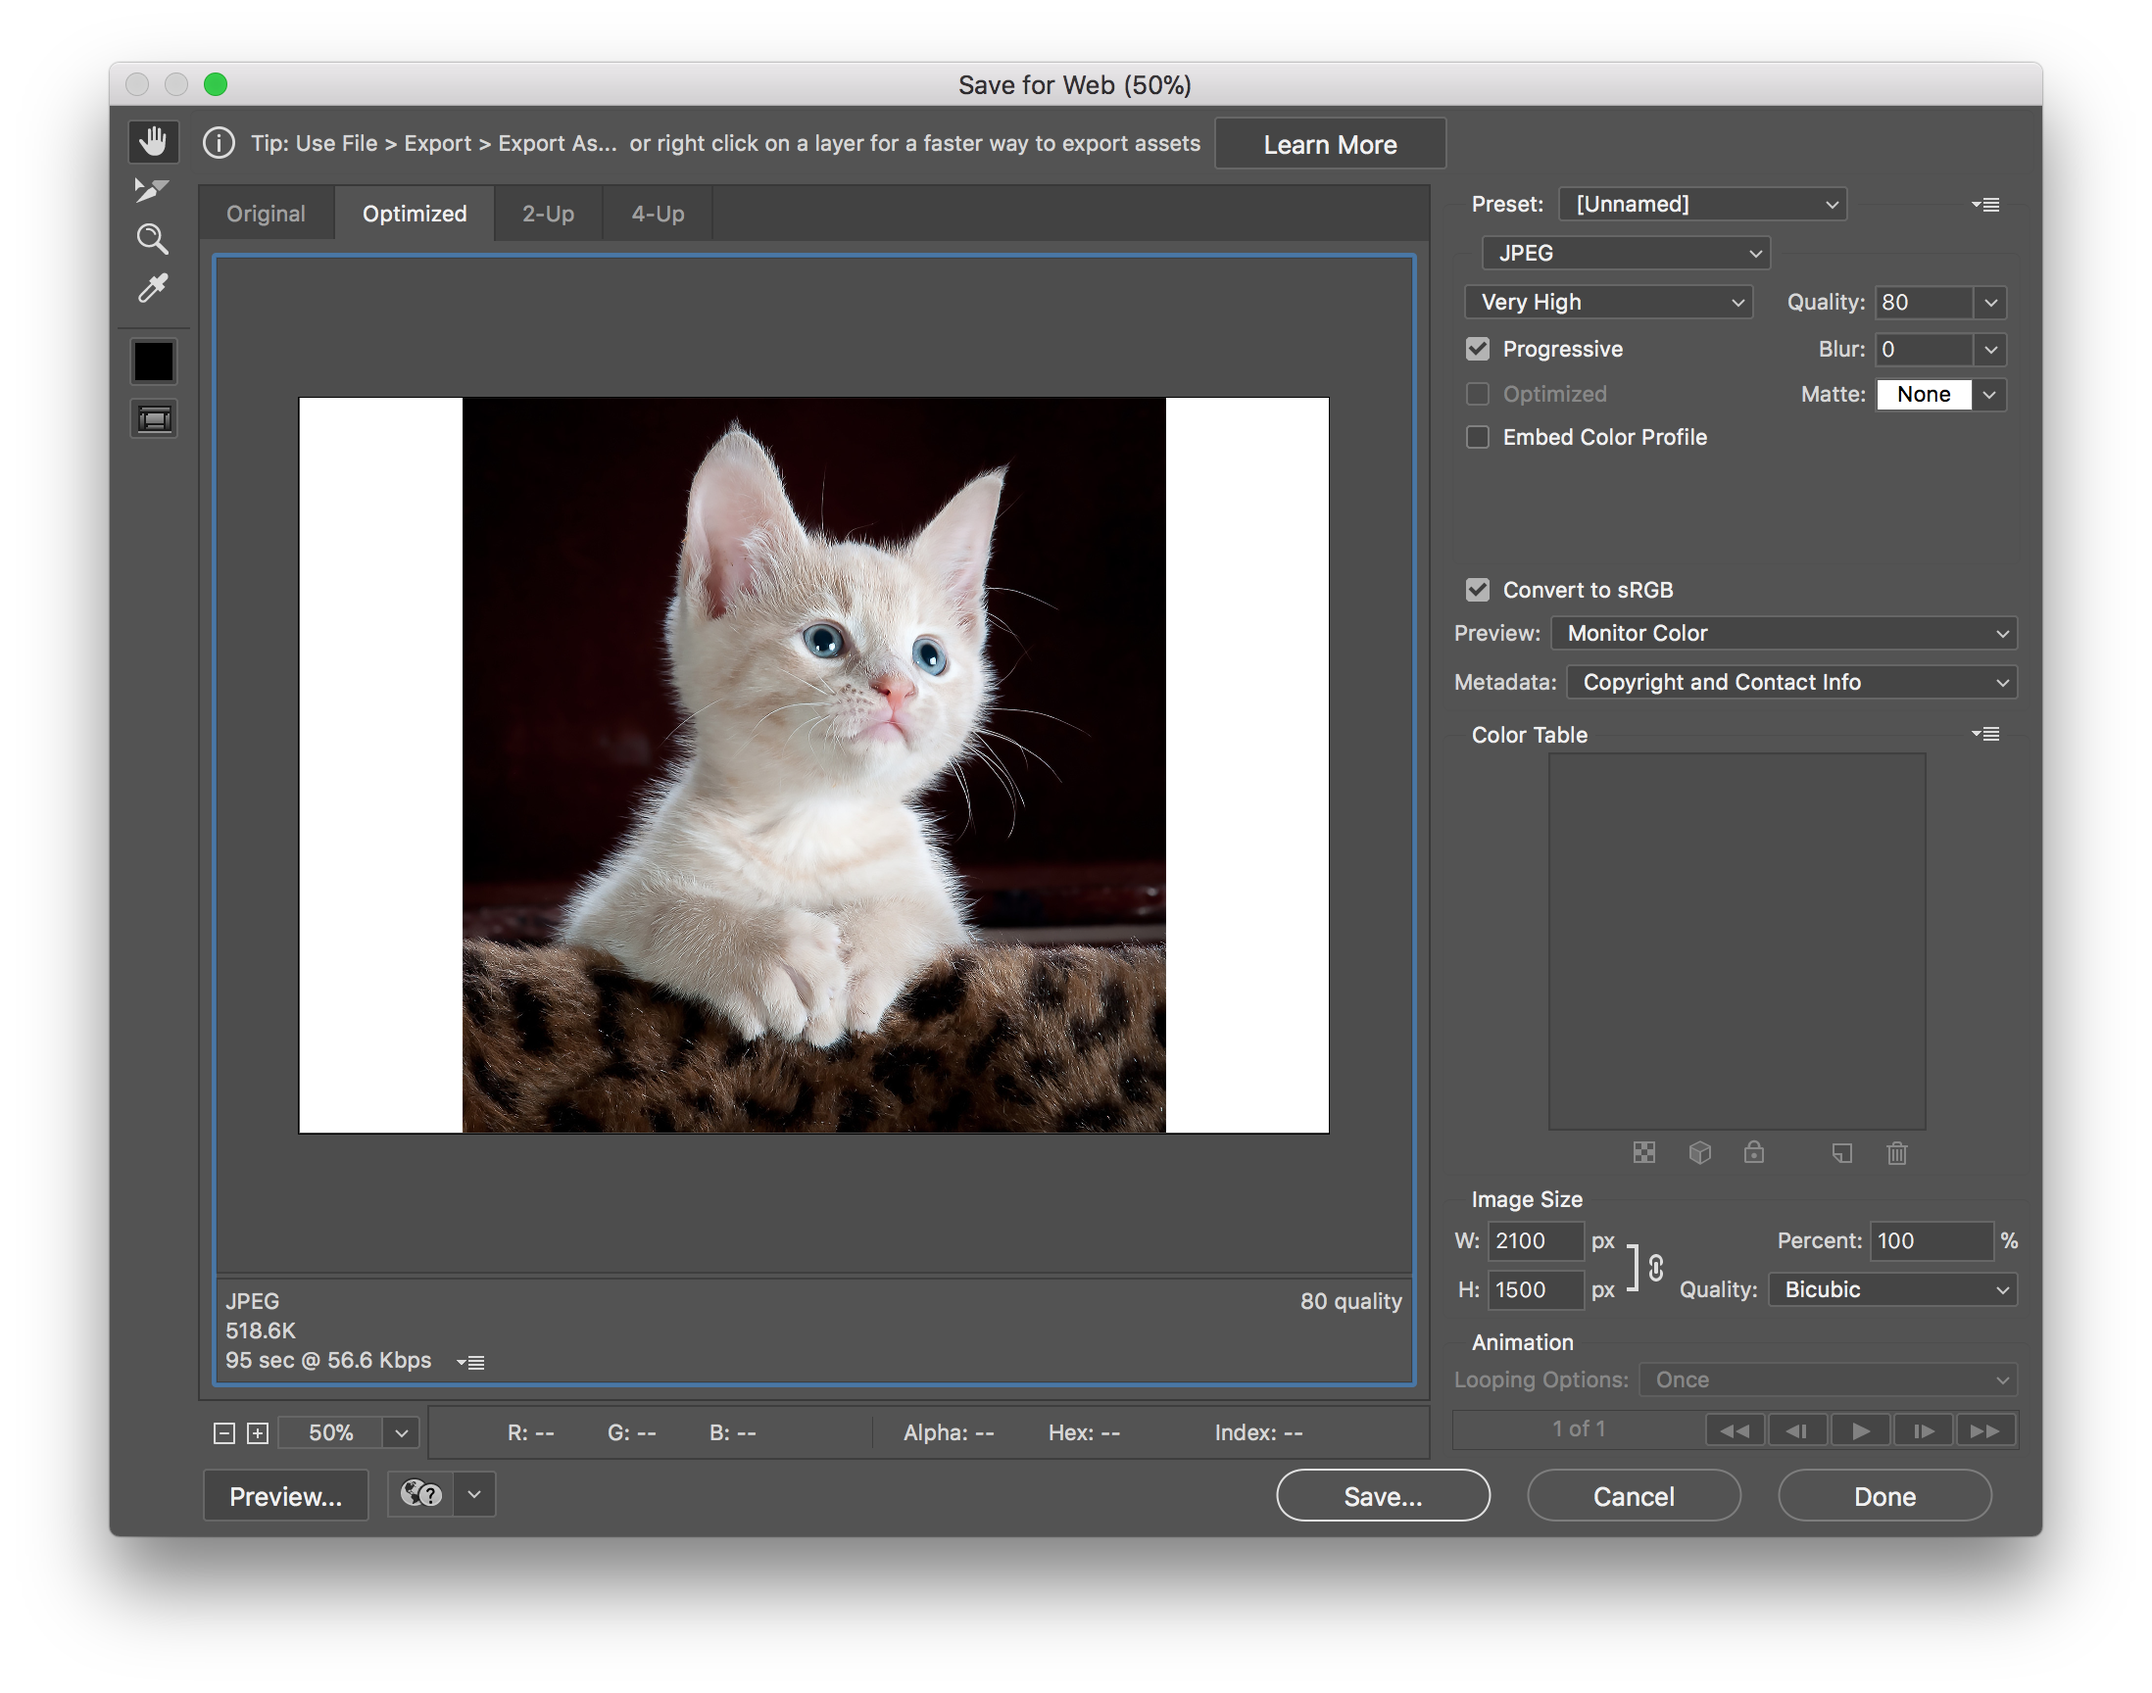
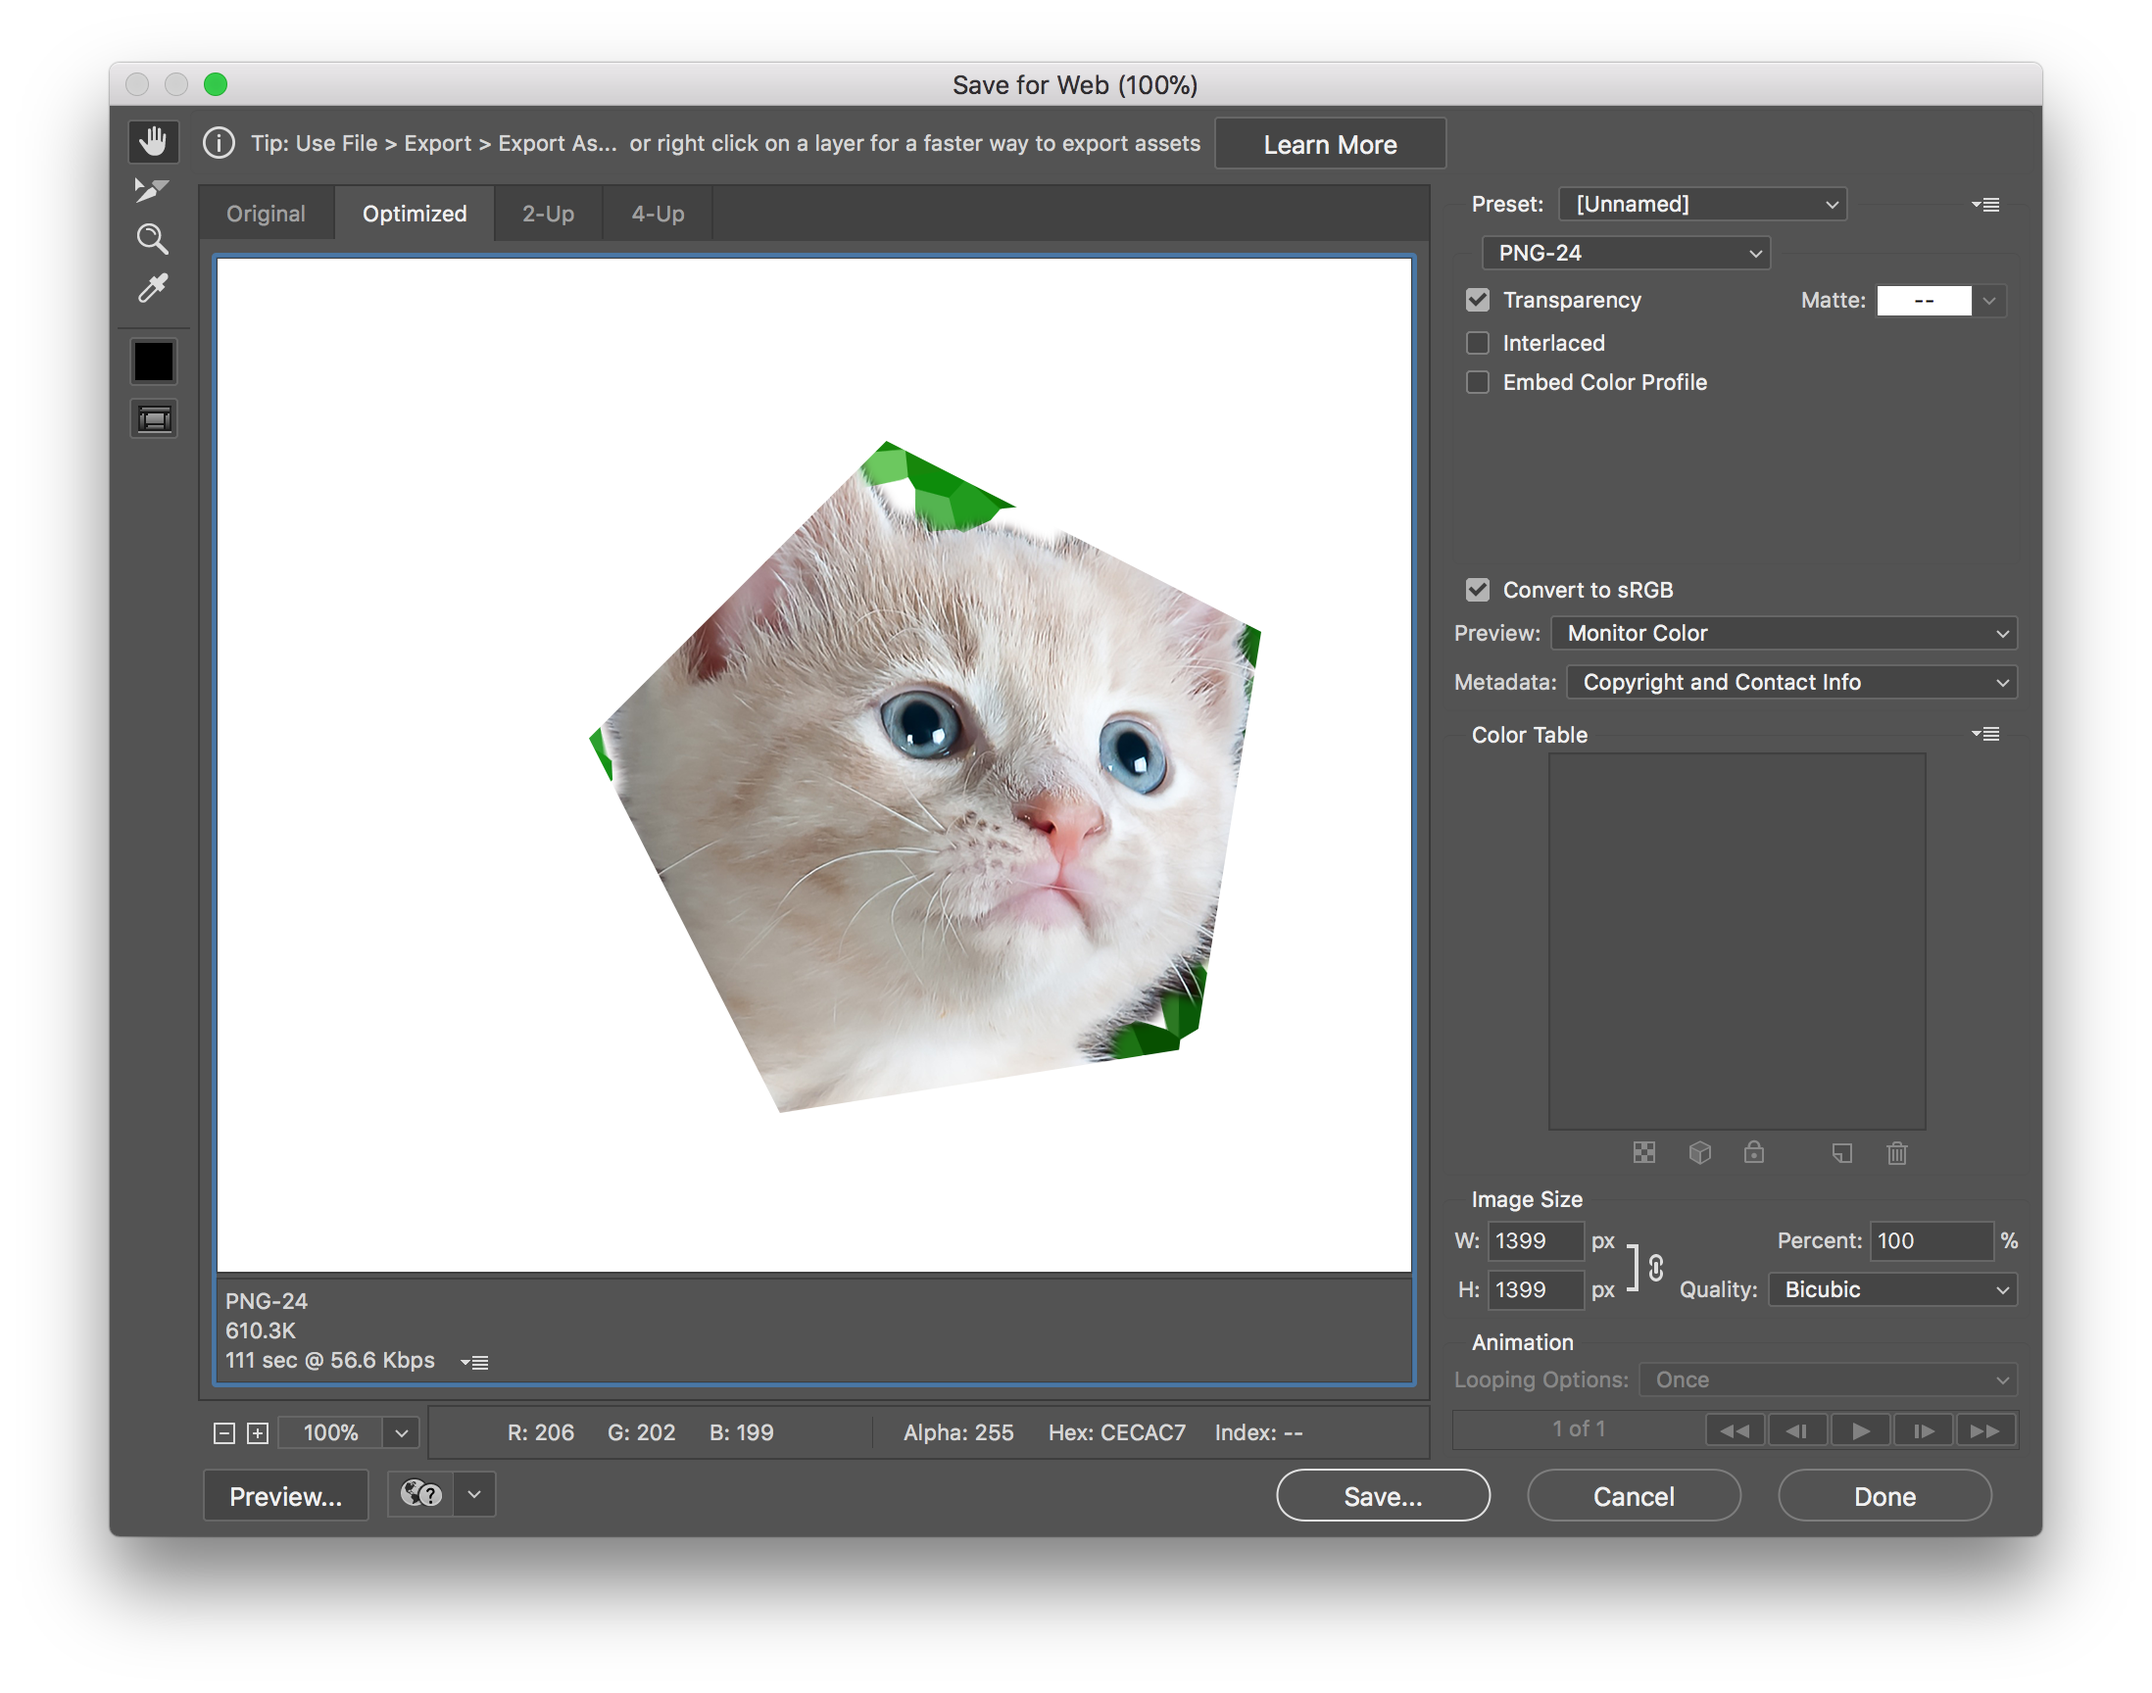
more pics added

Changed region(s): [[0.0929, 0.125, 0.8051, 0.8125], [0.8361, 0.1562, 0.929, 0.25], [0.4335, 0.0312, 0.5574, 0.0625]]

diff --git a/_posts/2018-01-31-getting-started-with-photoshop.md b/_posts/2018-01-31-getting-started-with-photoshop.md
@@ -34,7 +34,7 @@ We start off by launching the application either in Launchpad or with Spotlight.
 
 ![Spotlight]({{ site.baseurl }}/media/{{ page.categories[0] }}/getting-started-with-photoshop/spotlight.png)
 
-Once Photoshop is launched, we may see a different workspace depending on the previous user settings. There are two steps (as illustrated below) we need to do in order to make sure we are on the same workspace. And this is also what we do whenever we get lost (don't know where everything is).
+Once Photoshop is launched, we may see a different workspace depending on the previous user settings. There are two steps (as illustrated below) we need to do in order to make sure we are on the same workspace. And this is also what we do whenever we get lost (when don't know where everything is).
 
 ![Menu Bar]({{ site.baseurl }}/media/{{ page.categories[0] }}/getting-started-with-photoshop/menu-bar-window.png)
 
@@ -63,16 +63,11 @@ Then we have a new tab in our workspace. Let's take this chance to familiarize u
 ![My Untitled]({{ site.baseurl }}/media/{{ page.categories[0] }}/getting-started-with-photoshop/my-untitled.png)
 
 - **Tools** are lined up on the left side, and this is where we choose the tool that we use, which we will be learning in just a second.
-
 - **Options** are at the top, which provides addtional options for the tool that is selected.
-
 - **Color** picker can be found at the top right corner.
-
   - Both under Color panel and Tools, there is one small square in front of the other small square.
   - The one in front indicates the foreground color and the one on the back indicates the background color.
-
-- **Layers** are at bottom right corner. Layers make it possible for us to seperate different components of a collage and arrange their order.
-
+- **Layers** are at bottom right corner. Layers make it possible for us to separate different components of a collage and arrange their order.
 - **Canvas** is right at the center and inside the canvas is what the final image will look like.
 
 ## Step 3: Import an Image
@@ -83,7 +78,7 @@ Then we have a new tab in our workspace. Let's take this chance to familiarize u
 
 ![Kitten]({{ site.baseurl }}/media/{{ page.categories[0] }}/getting-started-with-photoshop/kitten.png)
 
-Now that the image is on our canvas, we can move it around, scale it or even rotate it. Press Enter when we feel happy about it. Also, note that the image is imported as a smart object on a seperate layer, we need to rasterize it before we can manipulate it further.
+Now that the image is on our canvas, we can move it around, scale it or even rotate it. Press Enter when we feel happy about it. Also, note that the image is imported as a smart object on a separate layer, we need to rasterize it for certain editing procedure.
 
 ![Kitten]({{ site.baseurl }}/media/{{ page.categories[0] }}/getting-started-with-photoshop/workspace-kitten.png)
 
@@ -91,7 +86,7 @@ In order to rasterize the layer, we simply right on the name of the layer, and c
 
 Alternatively, instead of creating a new document and importing an image, we can also open the image with Photoshop directly. However, since we need to have more than one images, we still need to go to File > Place Embeded...
 
-Multiple images will stay in different layers, and we can arrange the order by clicking and dragging on the names of the layers.
+Multiple images will stay in different layers, and we can arrange the order by clicking and dragging on the names of the layers. We can also change the names of the layers by double-click on the layer name.
 
 ## Step 4: Learn the Workflow
 
@@ -108,6 +103,10 @@ In general, Shift means additive or proportional, Opt means substractive or spec
 ![Crop Tool Icon]({{ site.baseurl }}/media/{{ page.categories[0] }}/getting-started-with-photoshop/crop-tool.png)
 
 First tool we may want to use is the Crop Tool, which crops and rotates the canvas as we like. We can specify a ratio on the Options Panel, or click Clear if we don't need one.
+
+I cropped the canvas into a square.
+
+![Kitten Cropped]({{ site.baseurl }}/media/{{ page.categories[0] }}/getting-started-with-photoshop/kitten-cropped.png)
 
 Note that we can right click (or left click and hold) to view additional tools whenever there's little triangle at the bottom right corner of the tool icon.
 
@@ -137,6 +136,10 @@ For those two types of selection tools above, we can specify a Feather value on 
 
 - [Quick Selections](https://helpx.adobe.com/photoshop/using/making-quick-selections.html){:target="_blank"}: Quick Selection Tool "paints" a selection and Magic Wand Tool selects an area of consistent color.
 
+I decided to select the background.
+
+![Kitten Selected]({{ site.baseurl }}/media/{{ page.categories[0] }}/getting-started-with-photoshop/kitten-selected.png)
+
 A few things to note about selection tools:
 
 - In order to deselect, go to Select > Deselect.
@@ -163,9 +166,11 @@ One other thing we may want to do after selecting is to adjust it. Go to Image >
 
 ![Hue/Saturation]({{ site.baseurl }}/media/{{ page.categories[0] }}/getting-started-with-photoshop/hue-saturation.png)
 
-In particular, if we open Image > Adjustments > Hue/Saturation, we can completely change the colors in an image by dragging the Hue bar; e.g. turning a kitten to blue-ish.
+In particular, if we open Image > Adjustments > Hue/Saturation, we can completely change the colors in an image by dragging the Hue bar.
 
-![Kitten with Hue]({{ site.baseurl }}/media/{{ page.categories[0] }}/getting-started-with-photoshop/kitten-with-hue.png)
+I brought up the exposure of the selection and then changed the hue.
+
+![Kitten Exposure]({{ site.baseurl }}/media/{{ page.categories[0] }}/getting-started-with-photoshop/kitten-exposure.png) | ![Kitten Hue]({{ site.baseurl }}/media/{{ page.categories[0] }}/getting-started-with-photoshop/kitten-hue.png)
 
 ### The magic of filters
 
@@ -175,7 +180,7 @@ Thanks to the popularity of filters on social media, most of us already know wha
 
 Here, I did Filter > Pixelate > Crytallize...
 
-![Kitten with Crystallize]({{ site.baseurl }}/media/{{ page.categories[0] }}/getting-started-with-photoshop/kitten-with-crystallize.png)
+![Kitten Crystallized]({{ site.baseurl }}/media/{{ page.categories[0] }}/getting-started-with-photoshop/kitten-crystallized.png)
 
 ### Pick a color
 
@@ -191,6 +196,8 @@ Click anywhere on the canvas, and the Eyedropper Tool will use the color as fore
 Gradient Tool fills either the selection or the whole selected layer with a gradient, which we can modify on the Options Panel.
 
 Paint Bucket Tool either fills the selection with the foreground color, or fills an area of consistent color if no selection is made.
+
+![Kitten Gradient]({{ site.baseurl }}/media/{{ page.categories[0] }}/getting-started-with-photoshop/kitten-gradient.png)
 
 ### Paint something
 
@@ -237,6 +244,8 @@ While we are working, we may want to zoom in and zoom out the canvas. That is do
 
 If the tool is set to zoom in on the Options panel, pressing Opt key will temporarily switch it to zoom out and vice versa.
 
+![Kitten Zoom]({{ site.baseurl }}/media/{{ page.categories[0] }}/getting-started-with-photoshop/kitten-zoom.png)
+
 ![Hand Tool Icon]({{ site.baseurl }}/media/{{ page.categories[0] }}/getting-started-with-photoshop/hand-tool.png)
 
 When the canvas is really zoomed in, we can use the Hand Tool (or press the space bar) to navigate around the canvas.
@@ -254,17 +263,22 @@ The Type tools allow us to add texts to wherever we click on the canvas. Each te
 ![Ellipse Tool Icon]({{ site.baseurl }}/media/{{ page.categories[0] }}/getting-started-with-photoshop/ellipse-tool.png)
 ![Polygon Tool Icon]({{ site.baseurl }}/media/{{ page.categories[0] }}/getting-started-with-photoshop/polygon-tool.png)
 
-Choose one of the shape tools, then click and drag to draw the shapes on the canvas.
+Choose one of the shape tools, then click and drag to draw the shapes on the canvas. We can change both the Fill and Stroke color in Options panel.
+
+I added a black pentagon.
+
+![Kitten Shape]({{ site.baseurl }}/media/{{ page.categories[0] }}/getting-started-with-photoshop/kitten-shape.png)
 
 ### [Apply a mask](https://helpx.adobe.com/photoshop-elements/using/clipping-masks.html){:target="_blank"}
 
 We've added texts and shapes, which we can actually use to create masks.
 
 - Put the text/shape layer right below the layer that we want to apply a mask to.
-
 - Right click on the name of the layer we want to apply the mask to, and choose Create Clipping Mask.
+- Note that all area that is not colored will be hidden.
 
-![Kitten with Mask]({{ site.baseurl }}/media/{{ page.categories[0] }}/getting-started-with-photoshop/kitten-with-mask.png)
+
+![Kitten Mask]({{ site.baseurl }}/media/{{ page.categories[0] }}/getting-started-with-photoshop/kitten-mask.png)
 
 ## Save our documents
 
